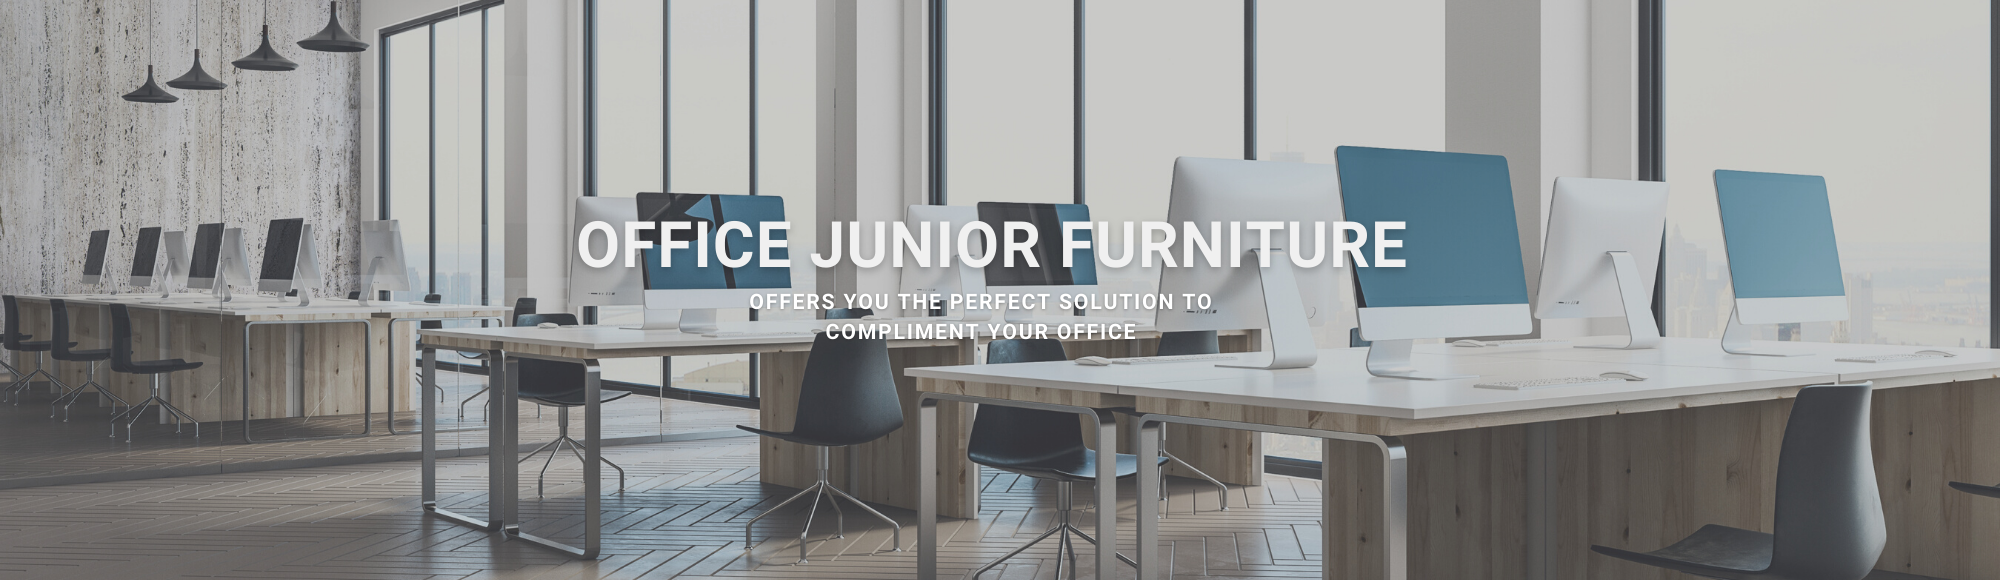
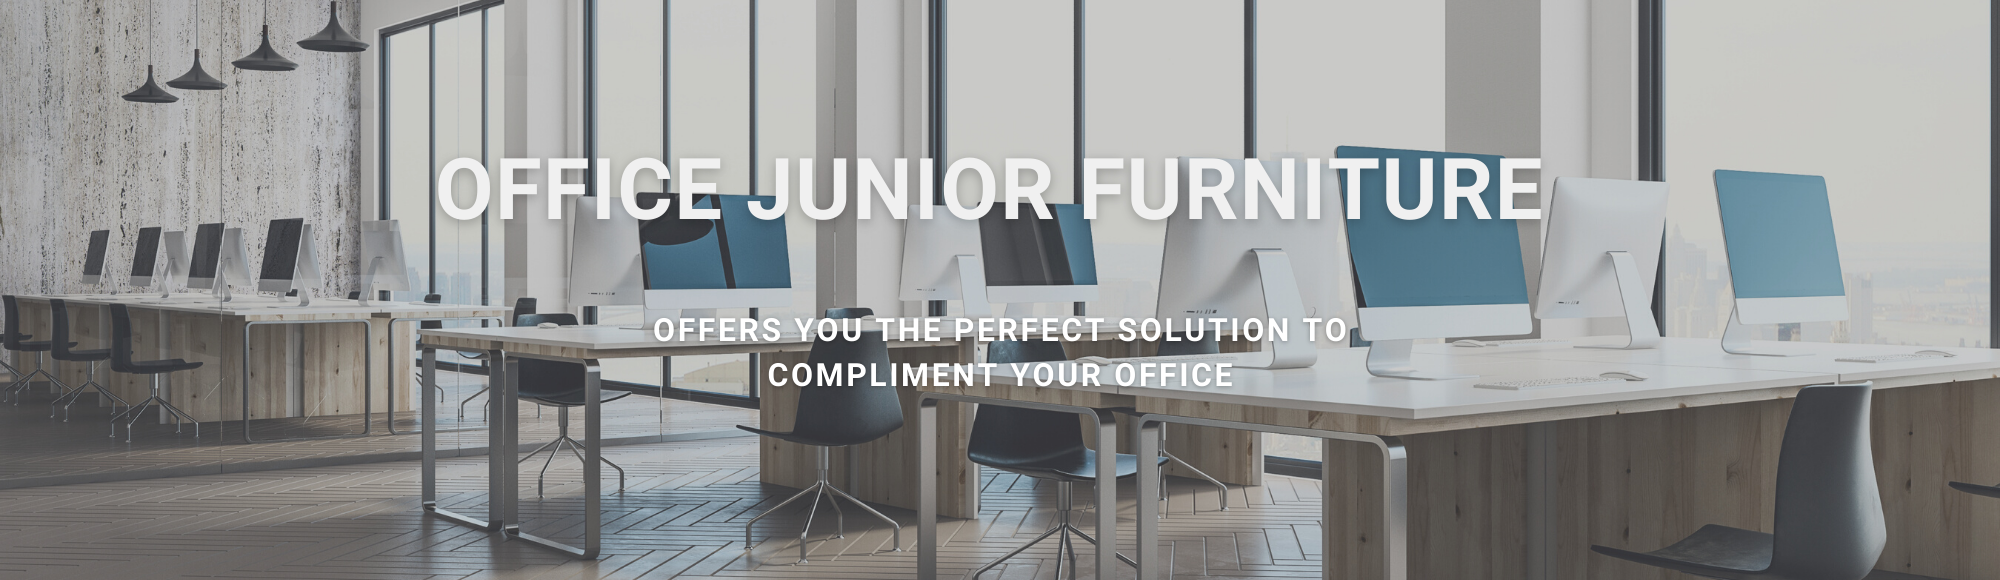
more changes

Changed region(s): [[0.217, 0.2483, 0.775, 0.4655], [0.31, 0.4966, 0.682, 0.5897], [0.372, 0.6207, 0.62, 0.6828]]

diff --git a/styles.css b/styles.css
@@ -58,7 +58,7 @@ nav li {
 }
 
 .img-banner-container {
-    height: 20vh;
+    height: 25vh;
 }
 
 .img-banner-container img {
